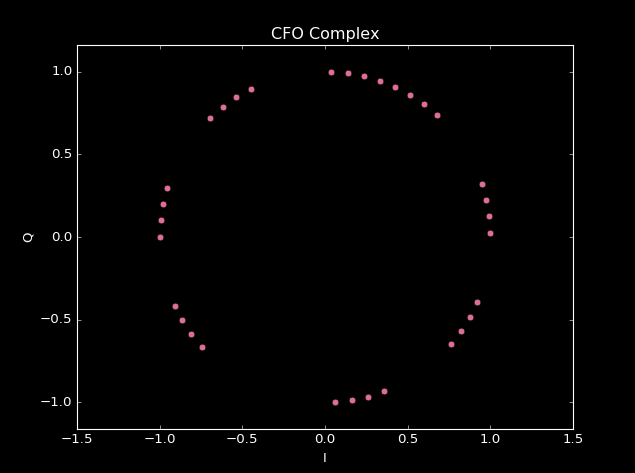
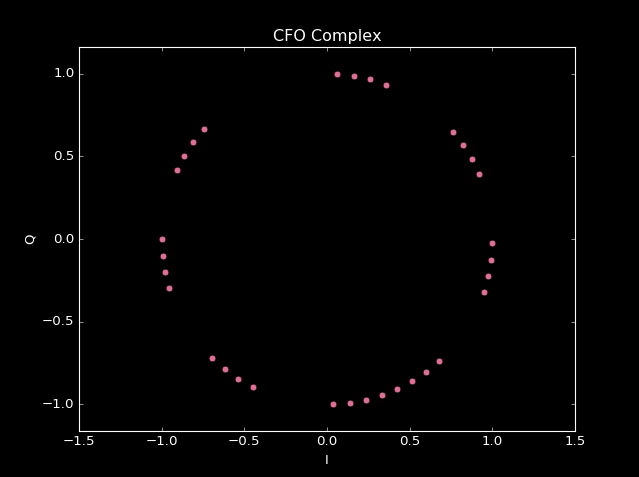
Arrange files

diff --git a/Main.py b/Main.py
@@ -164,7 +164,7 @@ P8.set_title("d_n")
 
 # 4(b) CFO
 CFO=800e3
-d_n_after_CFO = d_n_before_CFO*np.exp(-1j*2*np.pi*CFO*ttt)
+d_n_after_CFO = d_n_before_CFO*np.exp(1j*2*np.pi*CFO*ttt)
 
 plt.style.use('dark_background')
 fig, P9 = plt.subplots()
